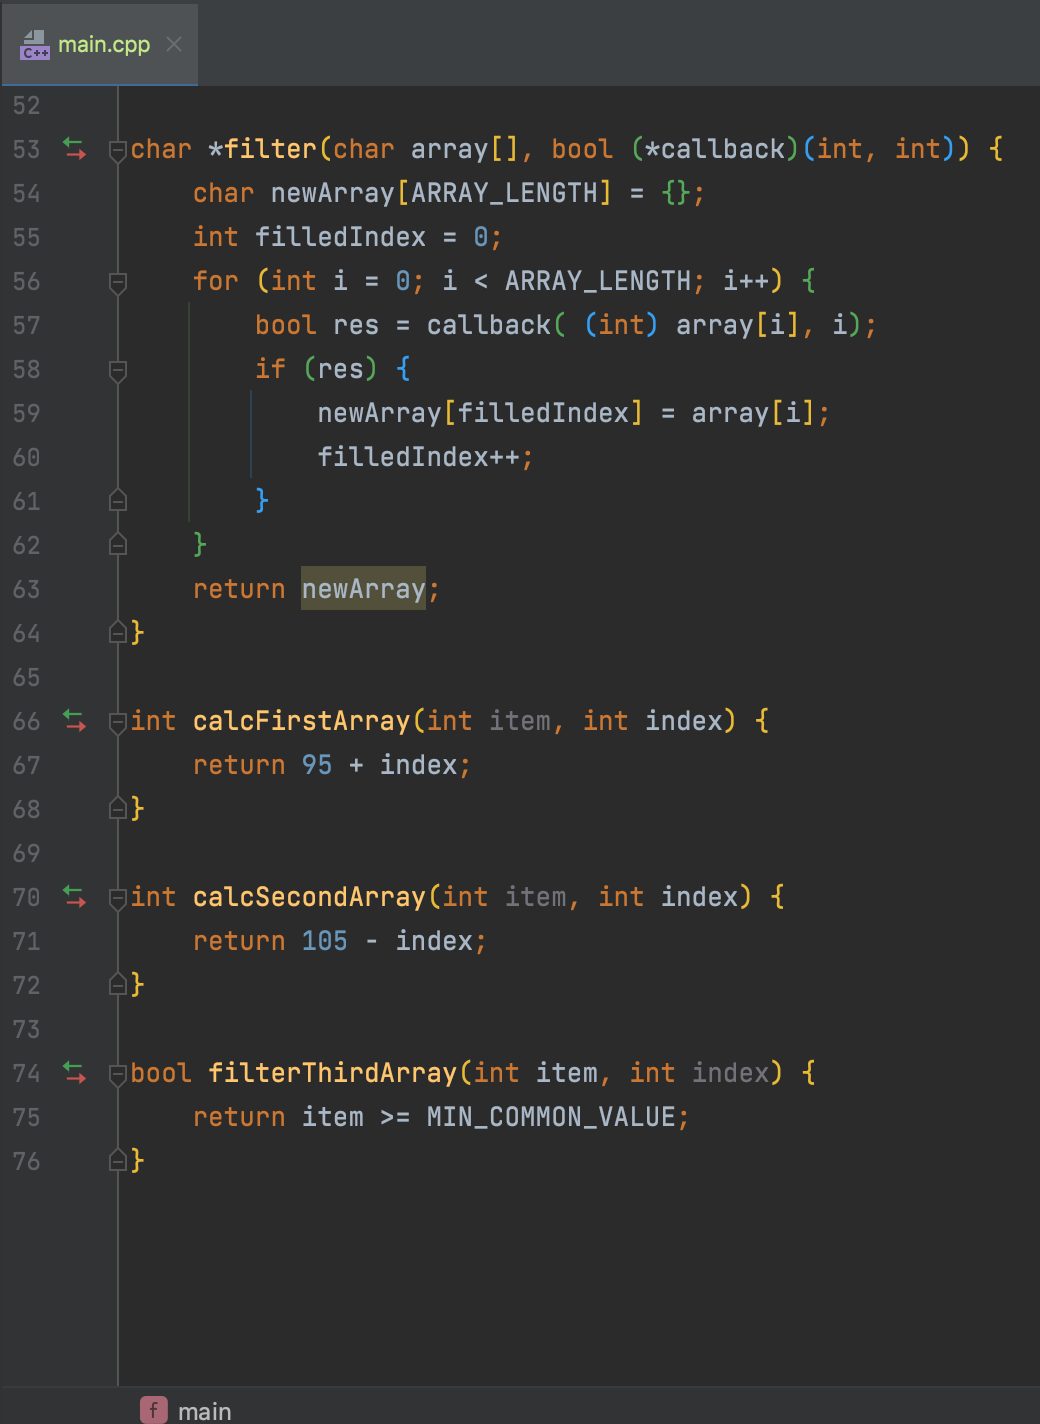
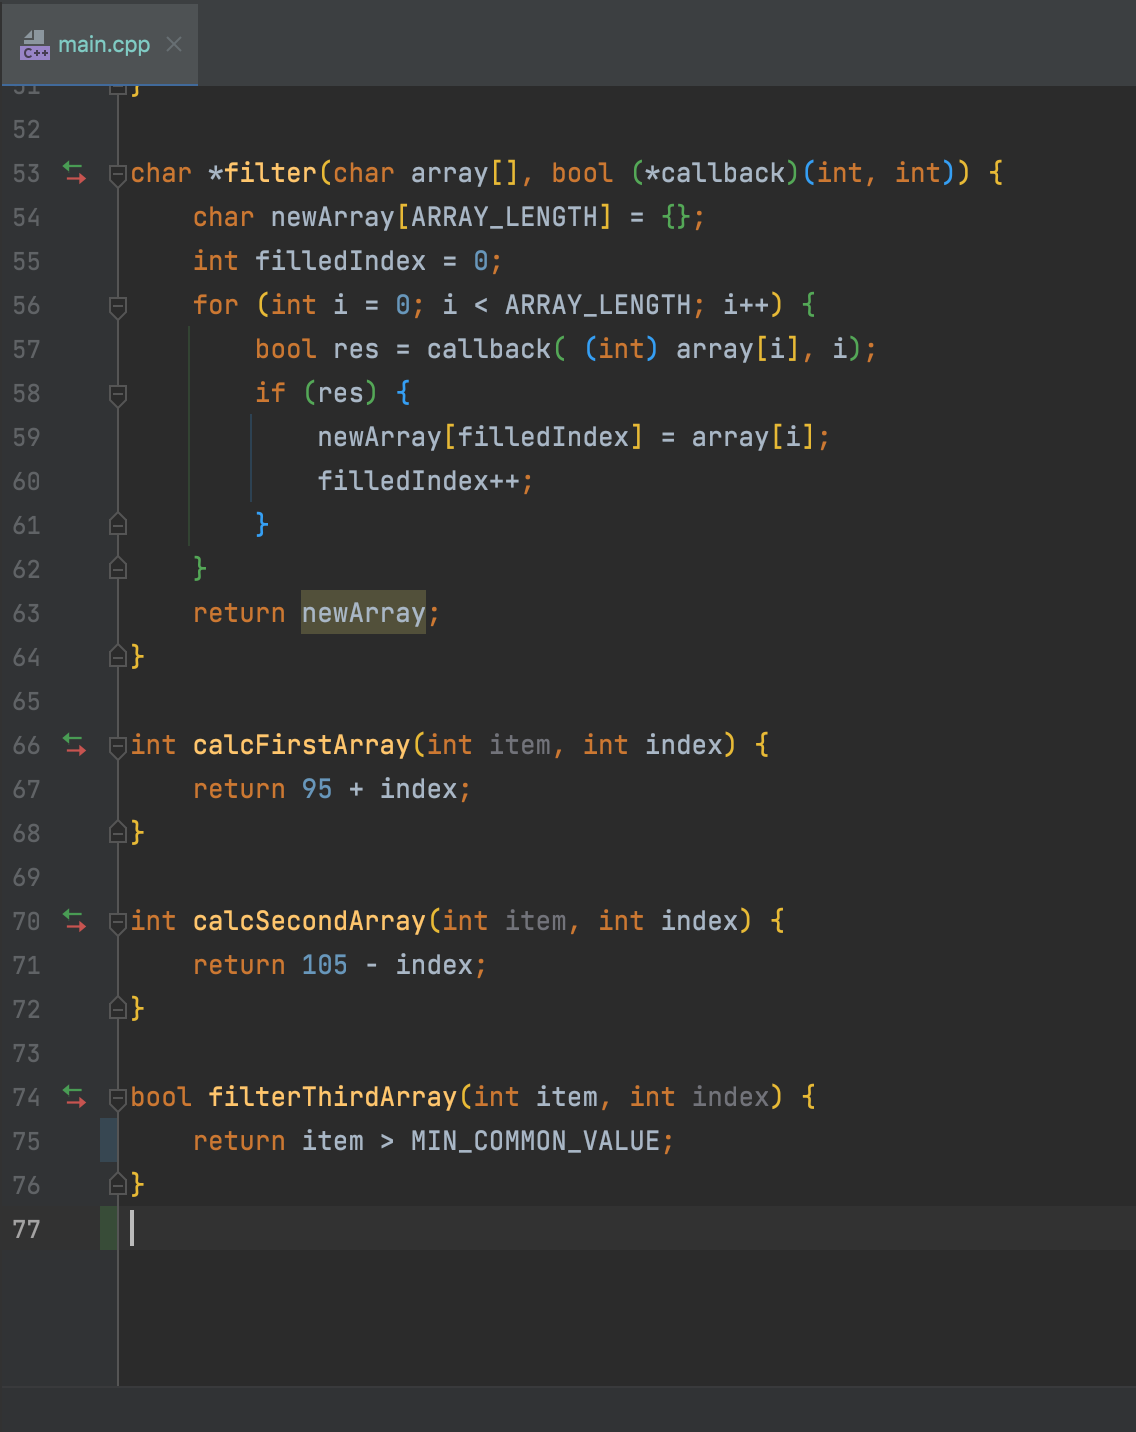
Updated 7th ADS lab

diff --git a/algorithms-and-data-structures/Lab-7/main.cpp b/algorithms-and-data-structures/Lab-7/main.cpp
@@ -72,5 +72,5 @@ int calcSecondArray(int item, int index) {
 }
 
 bool filterThirdArray(int item, int index) {
-    return item >= MIN_COMMON_VALUE;
+    return item > MIN_COMMON_VALUE;
 }
